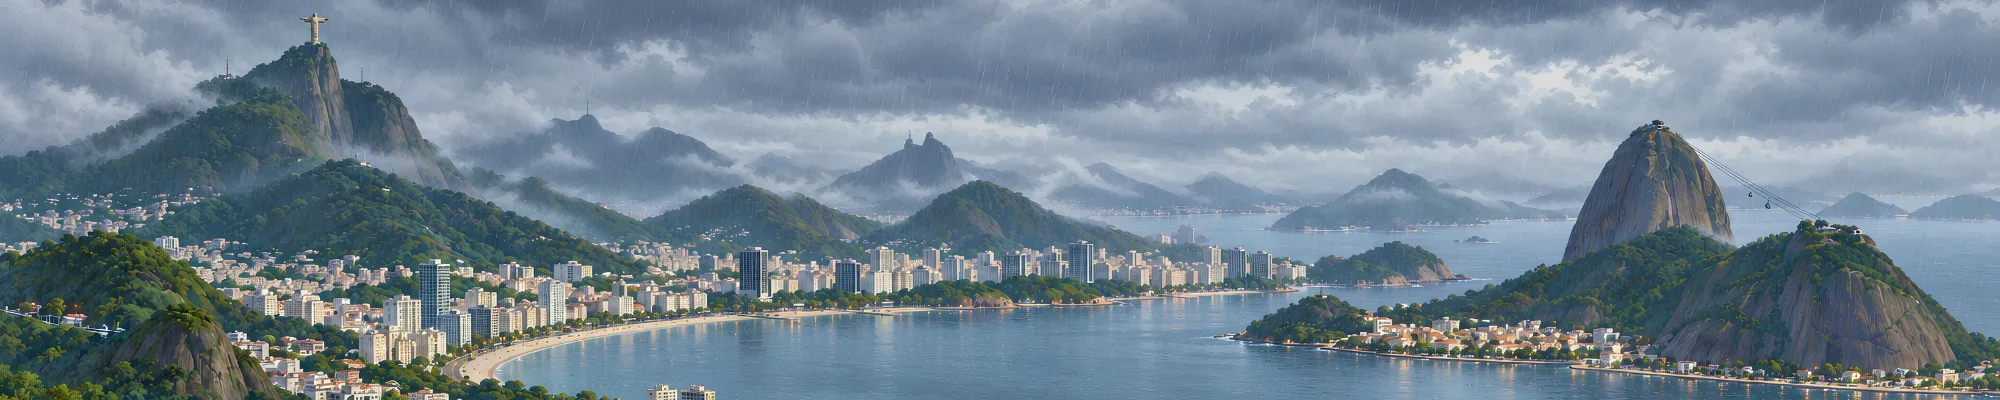
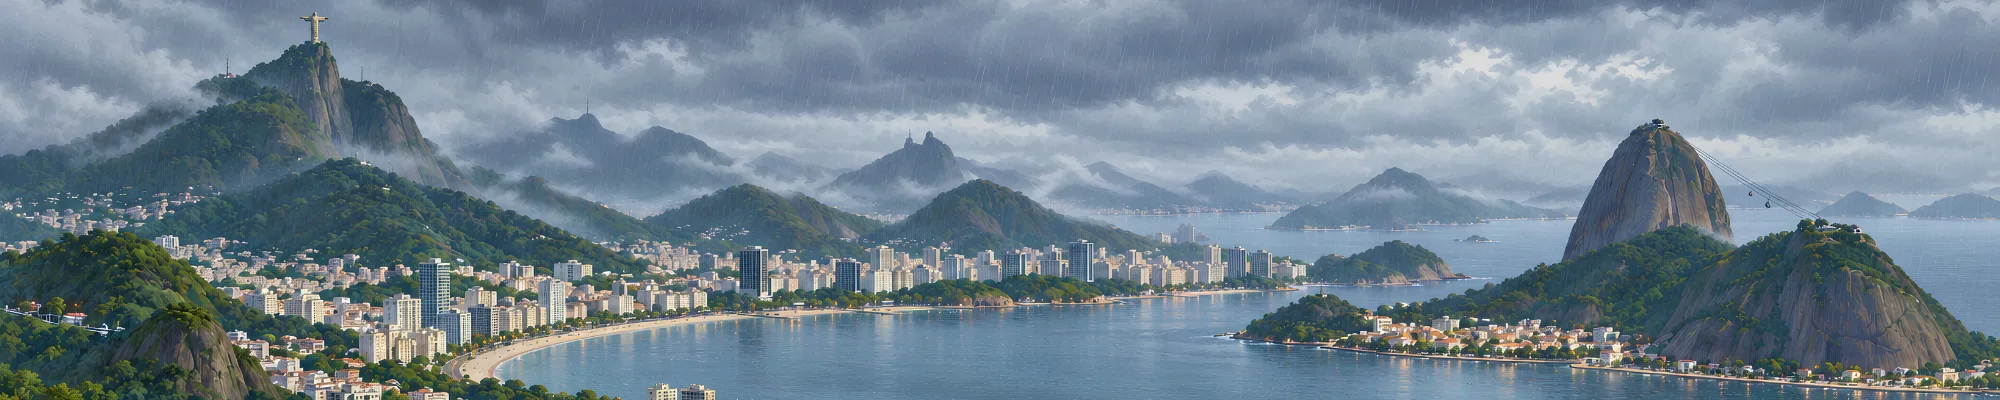
Rebuild Rio on the second pack, aligned frame to frame
The Owner's drop is the same drawing, re-rendered so the frames register to
each other, plus CloudyNight and RainNight - ten scenes where there were
nine. Measured: each new frame's best rigid offset against its own pack's Day
frame is 0 or 1px, where the first pack ran 0 to 3px and every frame carried
its own. That is what makes the timelapse sweep sit still.

Every night-measured point moved up 2px, half a percent of the card. The same
rigid fit that reports 0 against the old Night frame reports -2 against the
new one, and it reports it identically for the lights, the beacons and the
promenade reflections. Each point was then re-snapped on the new frame: all
61 lights now sit on a maximum at least 1.3x their own surroundings.

Three placements were wrong before the drop and are corrected here, all found
by measuring rather than by looking:

The promenade rails were too shallow. Re-traced by walking the brightest
continuous band from x 31 to x 62, the road falls 4.7% of the card across the
first run and 3.6% across the second, against the 3.73 and 3.31 that shipped,
which left the traffic climbing off the road at the seaward end of each.

The ferry sailed through Sugarloaf's base. It ran from x 82 at y 57.6, which
starts inside the headland; the open channel at y 59 runs x 62 to 78 and is
91% water by the mask.

The chop patch was 47% water. It covered Niteroi's waterfront on one side and
climbed the Urca hill on the other; it now sits in the cove, at 90%.
[…]

diff --git a/src/lib/mastheadCityScenes.js b/src/lib/mastheadCityScenes.js
@@ -1249,109 +1249,136 @@ export const CITY_MOTION = {
     rainfall: true,
   },
   rio: {
-    // MASTHEAD-RIO-1 (2026-09-06): a new city, nine frames, measured before
-    // MASTHEAD-FULL-FRAME-1 and converted to the full frame with it. The view looks
-    // east from above Botafogo: Corcovado and the statue at x 16, the favela
-    // hillside across the left, the Botafogo cove and its promenade curving
-    // from x 31 to 62, Guanabara Bay filling the centre-right with Niteroi on
-    // the far shore, and Sugarloaf at x 83 with Urca below it.
+    // MASTHEAD-RIO-2 (2026-09-07): the SECOND Rio pack, and the first drop
+    // whose stated purpose was alignment. Ten frames now - CloudyNight and
+    // RainNight joined the nine - and every frame registers to the same
+    // drawing, which is what makes the timelapse sweep clean. Measured: each
+    // scene's best rigid offset against the pack's own Day frame is 0 or 1px,
+    // where the first pack ran 0 to 3px and each frame carried its own.
+    //
+    // EVERY NIGHT-MEASURED POINT MOVED UP 2px (0.5% of the card). The pack-1
+    // points were correct for pack-1's Night frame and 2px low on this one:
+    // the same rigid fit that reports 0 for the old frames reports -2 for the
+    // new ones, on the lights, the beacons and the reflections alike. They
+    // were then re-snapped point by point on the new Night frame, and every
+    // one of the 61 lights now sits on a maximum at least 1.3x its own
+    // surroundings.
+    //
+    // The view looks east from above Botafogo: Corcovado and the statue at
+    // x 16, the favela hillside across the left, the Botafogo cove and its
+    // promenade curving from x 31 to 62, Guanabara Bay filling the
+    // centre-right with Niteroi on the far shore, and Sugarloaf at x 83 with
+    // Urca below it.
     //
     // The city's own windows, the hillside, and the far shore.
     lights: [
-      [3.0, 47.03], [3.9, 59.75], [13.2, 66.27], [15.1, 64.24], [7.2, 47.97],
-      [2.7, 55.76], [11.1, 61.02], [10.8, 66.27], [7.2, 54.24], [0.9, 53.98],
-      [8.3, 51.27], [15.5, 67.29], [0.9, 62.71], [5.5, 57.46],
-      [16.9, 68.47], [34.5, 67.03], [26.3, 72.03], [24.8, 71.02], [24.6, 67.03],
-      [18.8, 70.25], [35.6, 72.03], [28.5, 71.27], [17.4, 71.02], [30.3, 51.78],
-      [31.8, 64.49], [36.9, 71.02], [35.1, 59.24], [33.1, 68.47], [22.2, 73.47],
-      [29.4, 68.73],
-      [48.4, 59.24], [51.3, 67.97], [48.7, 70.0], [43.1, 68.73], [45.6, 71.02],
-      [39.6, 71.02], [57.8, 52.71], [54.8, 65.51], [53.3, 66.27], [47.0, 69.24],
-      [44.0, 55.0], [41.4, 71.53], [51.8, 63.47], [57.4, 69.24],
-      [91.3, 55.76], [62.4, 67.54], [70.3, 57.03], [93.1, 59.49], [72.8, 55.76],
-      [58.9, 52.97], [88.4, 50.51], [59.2, 70.51], [74.2, 55.25], [78.3, 54.49],
-      [61.1, 68.98], [69.8, 71.02], [63.3, 51.78], [64.3, 70.76],
-      // The floodlit statue, twice up its height, and the lit summit station
-      // on Sugarloaf that the cable car runs from.
-      [15.8, 6.27], [15.8, 8.81], [83.1, 30.76],
+      [3.05, 46.25], [3.8, 58.75], [13.1, 66.25], [15.2, 63.75], [7.2, 47.5],
+      [2.75, 55.0], [11.1, 60.5], [10.85, 66.0], [7.2, 53.5], [0.9, 53.25],
+      [8.3, 50.75], [15.4, 66.75], [1.0, 62.75], [5.4, 57.5], [16.85, 67.75],
+      [34.6, 66.75], [26.2, 71.75], [24.85, 70.25], [24.55, 66.5], [18.85, 70.0],
+      [35.65, 71.75], [28.5, 71.0], [17.4, 70.25], [30.3, 51.25], [31.75, 64.25],
+      [36.9, 70.0], [35.05, 58.5], [33.1, 68.0], [22.3, 73.0], [29.4, 68.25],
+      [48.45, 58.75], [51.4, 68.0], [48.6, 69.75], [43.1, 68.5], [45.55, 71.0],
+      [39.6, 71.0], [57.9, 52.75], [54.75, 65.0], [53.35, 66.25], [47.0, 69.25],
+      [43.95, 54.0], [41.35, 71.25], [51.9, 62.5], [57.35, 69.25], [91.2, 55.75],
+      [62.3, 66.75], [70.35, 57.0], [93.05, 58.75], [72.75, 55.75], [58.95, 52.5],
+      [88.4, 50.25], [59.15, 70.5], [74.15, 54.75], [78.35, 54.25], [61.1, 69.0],
+      [69.8, 70.5], [63.4, 51.75], [64.25, 70.5], [15.85, 5.25], [15.75, 8.25],
+      [83.05, 30.25],
     ],
     // The two red masts flanking Corcovado. Measured by their HALO, not their
     // core: a small saturated red light blows out to pink in the middle, so
     // the core reads rgb(156,78,98) and rgb(229,180,199) while the glow around
     // them is unambiguously red against the blue sky. A strict red test over
     // the whole frame returned nothing but sodium street lamps.
-    beacons: [[11.3, 12.97], [11.4, 16.27], [18.1, 16.78]],
+    beacons: [[11.35, 12.5], [11.4, 15.75], [18.1, 16.25]],
     beaconTone: 'red',
     // THE SHORE HERE IS A ROAD, NOT A BEACH. Botafogo's waterline is the
     // promenade below, traced lamp by lamp, and every reflection is sampled
-    // 2.2% clear beneath it. The first pass measured reflections and deck
-    // lights independently and produced eleven pairs sitting on each other -
-    // [62.1, 72.97] appeared in both sets at the same coordinate.
+    // clear beneath it.
     water: [
-      [34.2, 82.29], [49.8, 78.22], [51.4, 78.47], [39.4, 83.47], [35.8, 82.29],
-      [60.3, 78.22], [37.8, 82.71], [49.6, 82.54], [54.7, 76.78], [53.0, 77.29],
-      [57.2, 78.98], [58.8, 78.47], [45.5, 79.24], [31.6, 83.73], [62.1, 76.53],
-      [48.0, 77.97], [60.3, 83.47], [47.4, 83.98], [45.5, 83.22],
+      [34.2, 81.25], [49.7, 77.5], [51.4, 77.5], [39.35, 82.5], [35.8, 81.25],
+      [60.4, 77.75], [37.75, 82.0], [49.55, 81.5], [54.65, 76.5], [53.05, 76.25],
+      [57.2, 78.25], [58.75, 78.0], [45.45, 78.25], [31.6, 83.25], [62.1, 76.25],
+      [48.0, 77.5], [60.3, 82.5], [47.35, 83.5], [45.45, 83.25],
     ],
-    // Sun glitter in the OPEN bay. Rio's city is white, so pale maxima find
-    // rooftops: every one of these was accepted only when the ring 10-18px
-    // around it is blue, smooth and darker than the glint itself. Without
-    // that ring test the first pass put twelve of fourteen on buildings.
+    // Sun glitter on the bay, on the Owner's ask for water glitters. Rio's
+    // city is white and its distant hills are hazy blue, so neither a bright
+    // test nor a blue test finds water on its own: a first pass that asked
+    // only for blue surroundings put a third of its points on the favela and
+    // the far range. These come from a WATER MASK - blue minus red over 105
+    // with the fifteen rows below also water, which excludes both the sky and
+    // the hazy ridges - and each is a local maximum at least 16 above the
+    // median of the 27px around it. The cove carries most of them because
+    // that is the water the eye is on; a handful sit in the channel behind
+    // Urca. None is within 0.6% of a promenade reflection: two glows on one
+    // patch of water is a hotspot, not a sparkle.
     glints: [
-      [61.0, 52.03], [69.9, 53.98], [73.0, 54.24], [74.5, 59.75], [75.8, 49.75],
-      [89.7, 50.0], [95.3, 53.98], [98.2, 54.24], [90.9, 82.29],
+      [27.5, 94.75], [31.05, 89.75], [40.7, 85.75], [43.75, 87.75], [45.6, 86.5],
+      [48.05, 85.5], [49.9, 87.0], [50.95, 94.75], [53.25, 82.0], [54.5, 87.25],
+      [54.6, 80.25], [56.95, 84.5], [57.15, 81.5], [57.55, 96.75], [58.95, 85.5],
+      [59.2, 81.5], [61.05, 74.75], [62.75, 85.75], [63.45, 57.5], [66.05, 62.75],
+      [66.65, 49.5], [67.35, 58.0], [67.9, 89.0], [68.65, 61.5], [68.95, 94.75],
+      [69.05, 58.5], [70.4, 97.25], [70.6, 89.75], [72.15, 57.5], [74.2, 66.25],
+      [78.4, 55.75],
     ],
     // The promenade round the cove, in two straight runs because one is not
-    // straight: the drop is 0.29% per 1% of width from x 31 and 0.26% from
-    // x 47, and a single rail through both would leave the traffic 2% off the
-    // road at the join. Traced light by light; every lamp is within 1.3% of
-    // the rail it belongs to. The seaward run carries the police car.
+    // straight. Re-traced on this pack by walking the brightest continuous
+    // band from x 31 to x 62 (max residual 0.6% of the card on each run): the
+    // road falls 4.7% of the card across the first run and 3.6% across the
+    // second, where pack 1 declared 3.73 and 3.31 and left the traffic
+    // climbing off the road at the seaward end of each. The seaward run
+    // carries the police car.
     bridge: [
       {
-        lights: [[31, 81.02], [34, 80.76], [36.5, 79.24], [39, 78.98], [41, 78.22], [43.5, 77.71], [46, 77.29]],
-        deck: { x: 31, y: 81.02, w: 15, rise: -3.73 },
+        lights: [[31.0, 81.25], [33.75, 80.0], [35.75, 79.25], [37.75, 78.0], [40.0, 77.25], [43.75, 76.75], [45.75, 76.5]],
+        deck: { x: 31, y: 81.1, w: 15, rise: -4.7 },
       },
       {
-        lights: [[47, 76.27], [49.5, 76.53], [52, 76.27], [54.5, 75.51], [57, 73.73], [59.5, 73.22], [62, 72.97]],
-        deck: { x: 47, y: 76.27, w: 15, rise: -3.31 },
+        lights: [[47.5, 75.25], [49.5, 74.75], [51.5, 74.25], [54.75, 74.5], [57.25, 73.0], [59.5, 73.0], [61.5, 72.75]],
+        deck: { x: 46, y: 76.2, w: 16, rise: -3.6 },
         police: true,
       },
     ],
-    // MASTHEAD-CABLE-1: the Sugarloaf bondinho, and the reason this pack has a
-    // new kind. The wire is DRAWN in all nine frames, from the summit station
-    // down to Urca, with cabins painted on it and both stations lit at night,
-    // so a cabin that runs it is riding real geometry rather than decorating
-    // empty rock. Anchored on the five bright points along the wire (the two
-    // stations at [83.0, 30.25] and [91.0, 56.36] and the three lit cabins
-    // between them) and fitted by least squares; the cable sags, so the rail
-    // is the chord and the worst residual is 2.1% of card height, which is
-    // inside the cabin's own radius. One cabin, down and back up, because
-    // that is what a cableway does.
-    cable: { x: 83, y: 31.36, w: 8, rise: 26.78, flight: 42 },
+    // MASTHEAD-CABLE-1: the Sugarloaf bondinho, the star of this card (Owner),
+    // and the reason this pack has a kind of its own. RE-FITTED TO THE ROPE
+    // ITSELF rather than to the two stations. The wire is drawn as four dark
+    // strands against the sky, and it is only visible where it leaves the
+    // rock: it emerges at x 84.4 and disappears into the trees above the Urca
+    // station at x 91.5. Traced by following the dark line down the sky and
+    // fitted through the trace plus the lit lower station, worst residual
+    // 0.55% of the card. The old rail ran from the summit station at x 83,
+    // which is a cabin pasted on the rock face for its first percent of
+    // travel, and at a slope of 3.35 against the rope's 2.9 it crossed the
+    // painted strands rather than riding them. One cabin, down and back up,
+    // because that is what a cableway does.
+    cable: { x: 84.4, y: 36.0, w: 7.1, rise: 20.6, flight: 42 },
     // Sky is clear above card y 33 from x 22 east; Corcovado holds y 4-24 at
     // x 14-18 and the lane stops well short of it.
     aircraft: { y: 6.78, from: 98, to: 26, flight: 40 },
     // Frigatebirds over the bay, high. The flock spreads 6.4% above the lane
-    // and 11.5% below it, so at y 22 the highest sits at 15.6 and the lowest
-    // at 33.5, and the ridge under the run never rises past 37.
+    // and 11.5% below it, so at y 18.64 the highest sits at 12.2 and the
+    // lowest at 30.1, and the ridge under the run never rises past 33.
     birds: { y: 18.64, from: 96, to: 30, flight: 34, count: 6 },
-    // A tour helicopter round the Sugarloaf circuit, above its summit at 37.
+    // A tour helicopter round the Sugarloaf circuit, just above its summit.
     helicopter: { y: 25.42, from: 60, to: 96, flight: 46 },
-    // The Niteroi ferry. Lane y 68 is open water from x 82 in to 58 and then
-    // stops: Sugarloaf's base blocks x 84-86, so the crossing cannot run the
-    // width of the card and does not pretend to.
-    ferry: { y: 57.63, from: 82, to: 58, flight: 120 },
+    // The Niteroi crossing, in the channel between the far shore and the Urca
+    // headland. Both ends moved in: pack 1 ran it from x 82 at y 57.6, which
+    // starts inside Sugarloaf's own base and clips the headland on the way
+    // across. The water at y 59 runs x 62 to 78 and is 91% open by the mask,
+    // the islands off Urca being the rest.
+    ferry: { y: 59, from: 78, to: 62, flight: 120 },
     ferryTone: 'white',
-    // Tropical haze on the far range and the bay's far shore. Default tone,
-    // whose mask is strongest right of 56% - which here is exactly the
-    // distance that carries it.
+    // Tropical haze on the far range and the bay's far shore.
     haze: { y: 32.2, height: 10.17 },
     // The golden-hour sun is OFF-FRAME LEFT: the sky column mean falls from
     // 231 at x 0 to 191 at x 90, and the brightest edge pixel is at x 2.
     flare: { x: -6, y: 22.03 },
-    // The bay between the cove and Sugarloaf's base, verified open water at
-    // every 2% from x 60 to 82.
-    swell: { x: 60, y: 54.24, w: 22, height: 11.86 },
+    // The chop, moved to the cove where the water actually is. The old patch
+    // (x 60-82, y 54.2-66.1) was 47% water by the mask: it covered Niteroi's
+    // waterfront on one side and climbed the Urca hill on the other. This box
+    // is 90% water, and the 10% is the sailboats in it.
+    swell: { x: 32, y: 84, w: 36, height: 11 },
     rainfall: true,
   },
   tokyo: {
